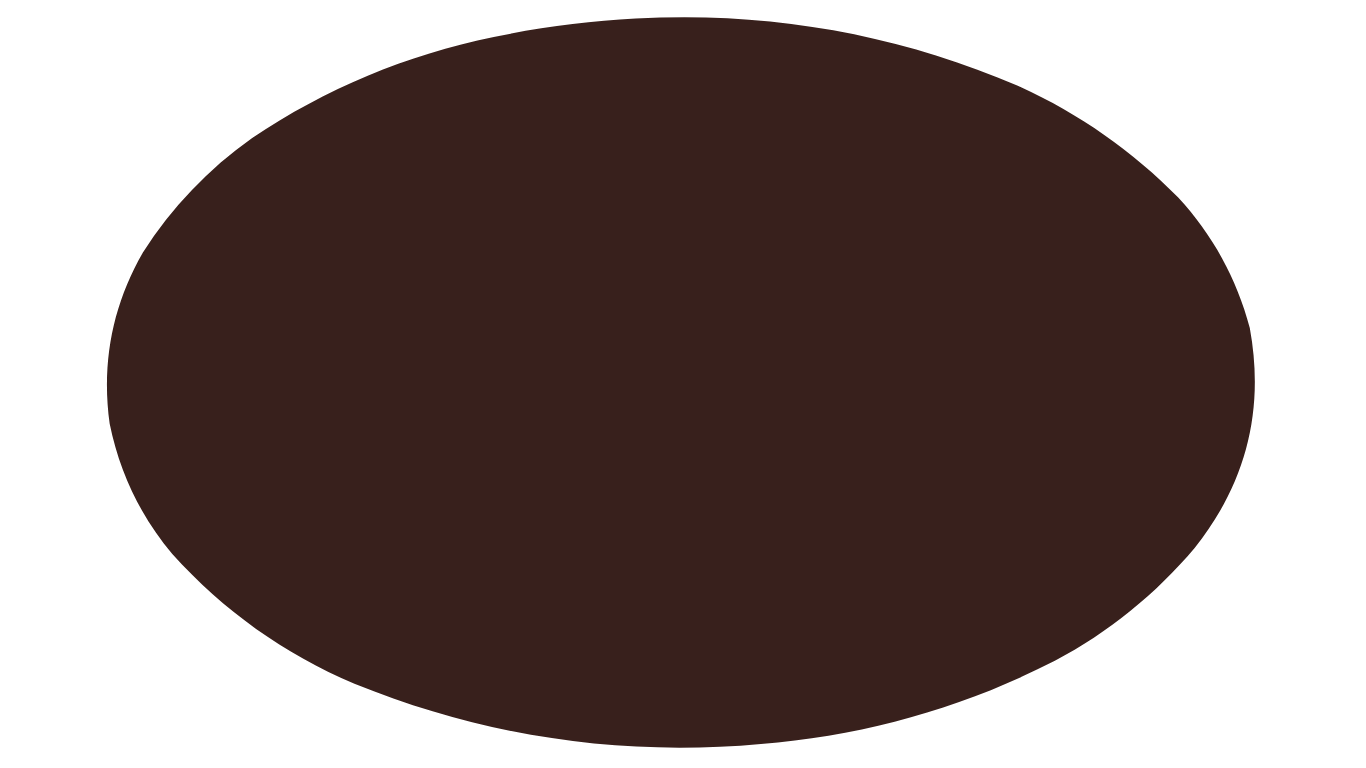
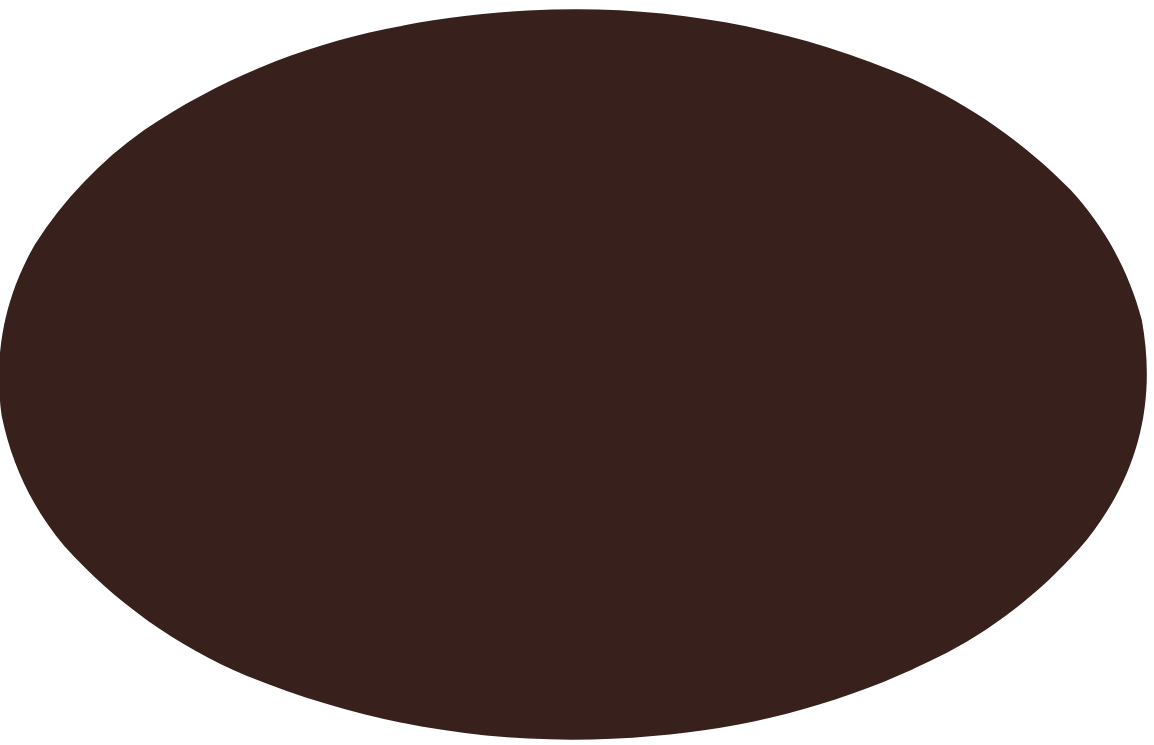
Scene 3 Background changes;

Changed region(s): [[0.0, 0.0, 0.9983, 1.0]]

diff --git a/src/scenes/Scene3_Underwater.tsx b/src/scenes/Scene3_Underwater.tsx
@@ -48,23 +48,41 @@ export const Scene3_Underwater = ({ onNext }: Scene3Props) => {
       animate={{ opacity: 1 }}
       exit={{ opacity: 0 }}
     >
-      {/* Underwater Background */}
-      <div 
-        className="absolute inset-0 bg-cover bg-center"
-        style={{ backgroundImage: "url('Initial Assets/sea.png')"}}
+      {/* Animated Underwater Background - CSS Gradient */}
+      <motion.div 
+        className="absolute inset-0"
+        animate={{
+          background: isTransitioning 
+            ? 'linear-gradient(180deg, #1e3a5f 0%, #0a1628 50%, #0d2137 100%)'  // Navy - Fish phase
+            : 'linear-gradient(180deg, #0a1628 0%, #050d15 50%, #000000 100%)'   // Deep Blue/Black - Bacteria phase
+        }}
+        transition={{ duration: 2, ease: "easeInOut" }}
       />
 
-      {/* Dark overlay for depth */}
-      <div  
-        className="absolute inset-0 bg-linear-to-b from-blue-900/30 via-transparent to-blue-950/50"
+      {/* Secondary overlay for depth effect */}
+      <motion.div  
+        className="absolute inset-0"
+        animate={{
+          background: isTransitioning
+            ? 'radial-gradient(ellipse at 50% 0%, rgba(30, 80, 130, 0.3) 0%, transparent 60%)'  // Lighter top glow for fish
+            : 'radial-gradient(ellipse at 50% 0%, rgba(10, 40, 80, 0.2) 0%, transparent 50%)'   // Darker ambiance for bacteria
+        }}
+        transition={{ duration: 2, ease: "easeInOut" }}
       />
 
       {/* Light rays from above */}
       <motion.div 
         className="absolute inset-0 pointer-events-none"
-        style={{ background: 'linear-gradient(180deg, rgba(100,200,255,0.15) 0%, transparent 40%)' }}
-        animate={{ opacity: [0.3, 0.5, 0.3] }}
-        transition={{ duration: 4, repeat: Infinity, ease: "easeInOut" }}
+        animate={{ 
+          background: isTransitioning
+            ? 'linear-gradient(180deg, rgba(100, 180, 255, 0.2) 0%, transparent 50%)'
+            : 'linear-gradient(180deg, rgba(50, 100, 150, 0.1) 0%, transparent 40%)',
+          opacity: [0.3, 0.5, 0.3] 
+        }}
+        transition={{ 
+          background: { duration: 2, ease: "easeInOut" },
+          opacity: { duration: 4, repeat: Infinity, ease: "easeInOut" }
+        }}
       />
 
       {/* Floating bubbles */}

diff --git a/src/components/SceneManager.tsx b/src/components/SceneManager.tsx
@@ -14,11 +14,11 @@ export const SceneManager = () => {
   const renderScene = () => {
     switch (currentScene) {
       case 1:
-        return <Scene3_Underwater key="scene1" onNext={nextScene} />
+        return <Scene1_Title key="scene1" onNext={nextScene} />  
       case 2:
         return <Scene2_Volcanic key="scene2" onNext={nextScene} />  
       case 3:
-        return <Scene1_Title key="scene3" onNext={nextScene} />  
+        return <Scene3_Underwater key="scene3" onNext={nextScene} />
       default:
         return <Scene1_Title key="scene1" onNext={nextScene} />
     }
